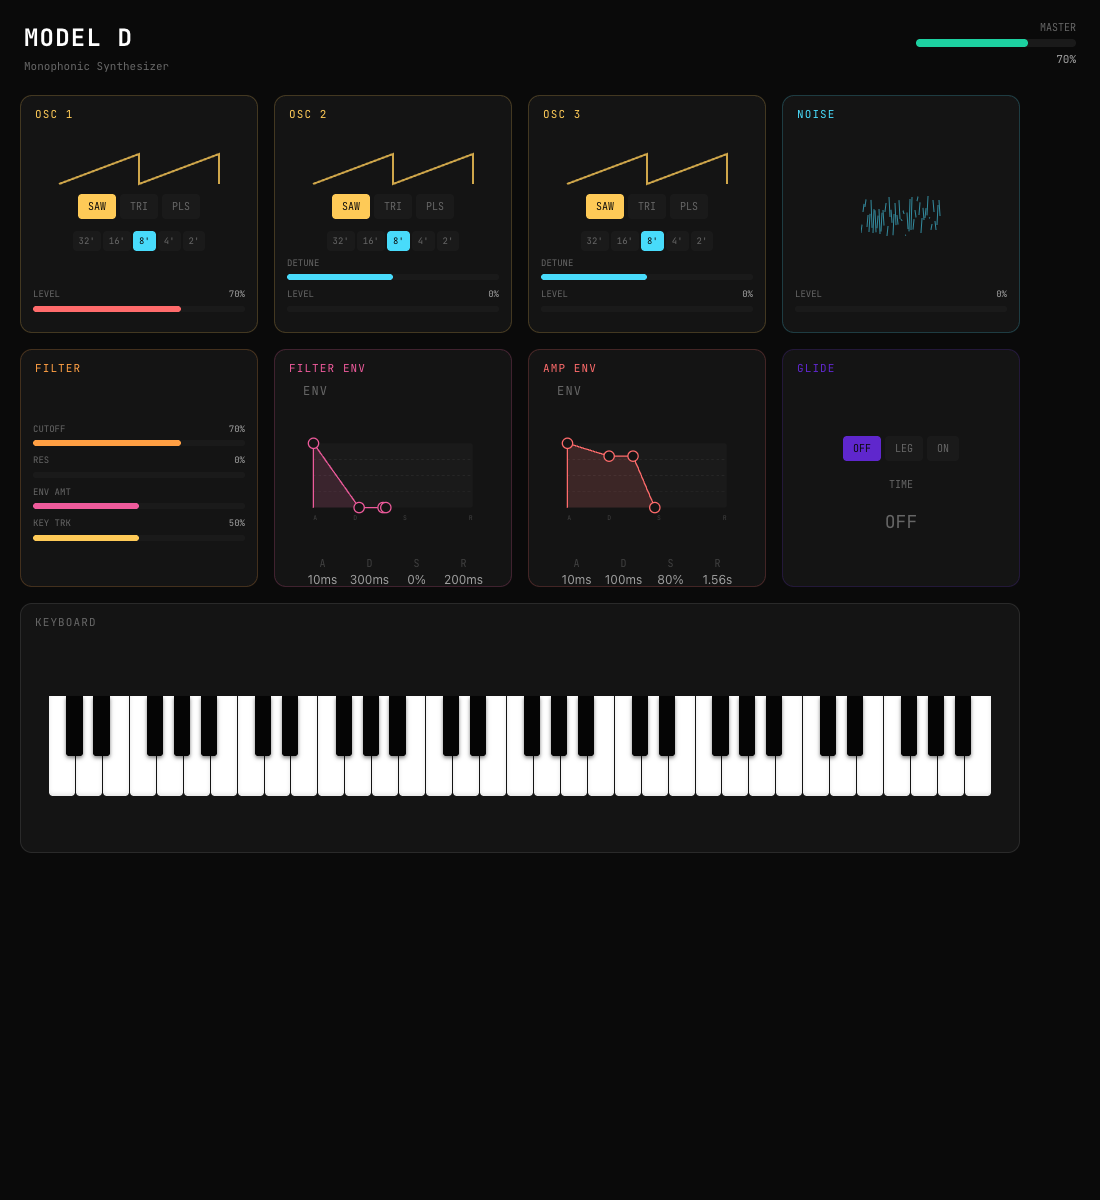
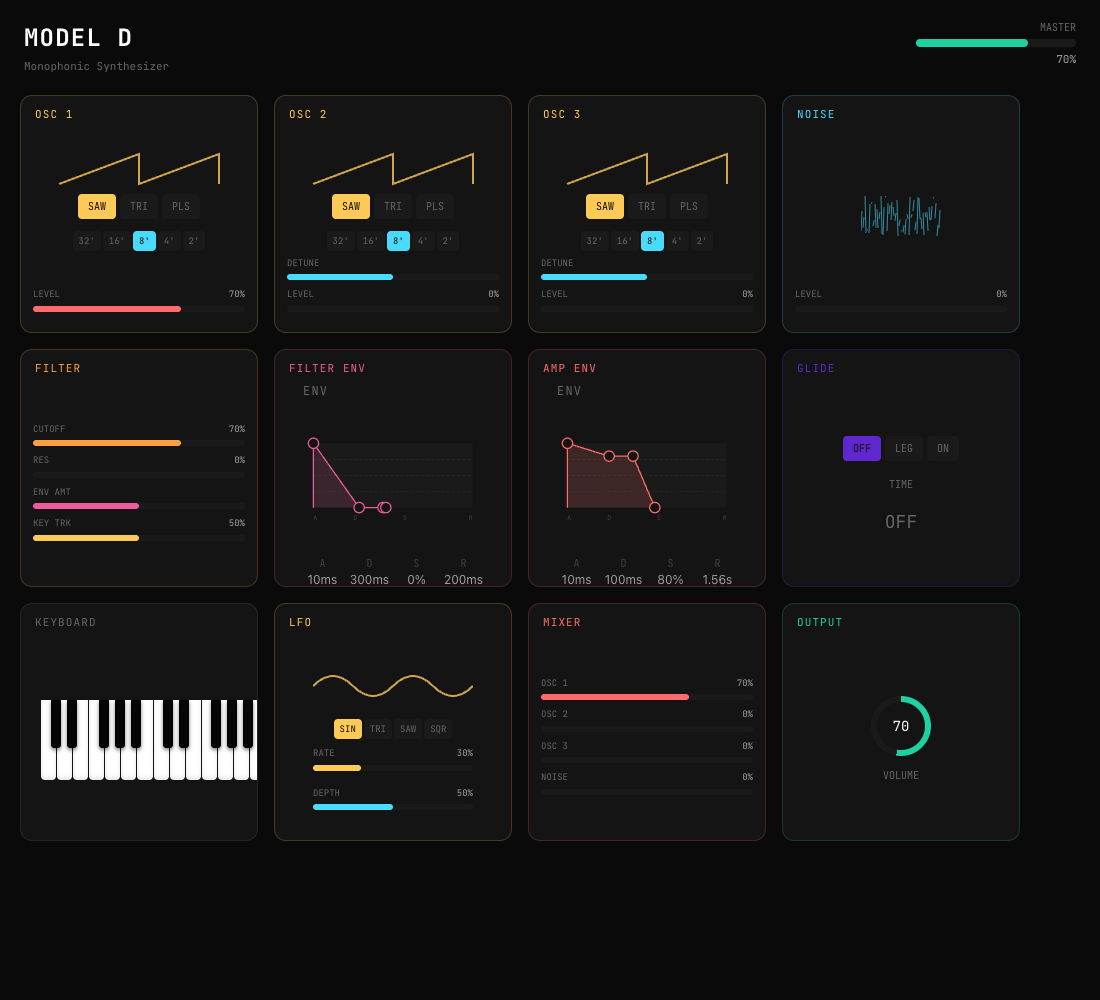
Fix SquareGrid: make ALL modules perfect squares
- Keyboard is now a single square (2 octaves, compact)
- Added LFO, MIXER, OUTPUT squares to complete row 3
- Now a perfect 4x3 grid of 12 identical squares
- Removed the span={4} that made keyboard 4x wider

🤖 Generated with [Claude Code](https://claude.com/claude-code)

diff --git a/src/stories/SynthLayout.stories.tsx b/src/stories/SynthLayout.stories.tsx
@@ -809,17 +809,77 @@ export const SquareGrid: StoryObj = {
             </div>
           </SquareModule>
 
-          {/* Row 3: Keyboard spans all 4 columns, same height as squares */}
-          <SquareModule title="KEYBOARD" span={4}>
-            <div style={{ width: '100%', height: '100%', display: 'flex', alignItems: 'center' }}>
+          {/* Row 3: More square modules */}
+          <SquareModule title="KEYBOARD" color={colors.text.muted}>
+            <div style={{ width: '100%', height: '100%', display: 'flex', alignItems: 'center', justifyContent: 'center' }}>
               <PianoKeyboard
-                startOctave={2}
-                octaves={5}
+                startOctave={4}
+                octaves={2}
                 activeNotes={activeNotes}
                 onNoteOn={(note) => setActiveNotes(prev => [...prev, note])}
                 onNoteOff={(note) => setActiveNotes(prev => prev.filter(n => n !== note))}
-                height={100}
+                height={80}
               />
+            </div>
+          </SquareModule>
+
+          <SquareModule title="LFO" color={colors.accent.yellow}>
+            <div style={{ flex: 1, display: 'flex', flexDirection: 'column', alignItems: 'center', justifyContent: 'center', gap: 8 }}>
+              <WaveformDisplay type="sine" color={colors.accent.yellow} />
+              <OptionButtons
+                options={['SIN', 'TRI', 'SAW', 'SQR']}
+                value="SIN"
+                color={colors.accent.yellow}
+                size="sm"
+              />
+              <CompactSlider label="Rate" value={0.3} color={colors.accent.yellow} />
+              <CompactSlider label="Depth" value={0.5} color={colors.accent.cyan} />
+            </div>
+          </SquareModule>
+
+          <SquareModule title="MIXER" color={colors.accent.coral}>
+            <div style={{ width: '100%', flex: 1, display: 'flex', flexDirection: 'column', justifyContent: 'center' }}>
+              <CompactSlider label="OSC 1" value={0.7} color={colors.accent.coral} />
+              <CompactSlider label="OSC 2" value={0} color={colors.accent.coral} />
+              <CompactSlider label="OSC 3" value={0} color={colors.accent.coral} />
+              <CompactSlider label="Noise" value={0} color={colors.accent.cyan} />
+            </div>
+          </SquareModule>
+
+          <SquareModule title="OUTPUT" color={colors.accent.green}>
+            <div style={{ flex: 1, display: 'flex', flexDirection: 'column', alignItems: 'center', justifyContent: 'center', gap: 12 }}>
+              <div style={{
+                width: 60,
+                height: 60,
+                borderRadius: '50%',
+                background: `conic-gradient(${colors.accent.green} ${masterLevel * 270}deg, ${colors.bg.elevated} 0deg)`,
+                display: 'flex',
+                alignItems: 'center',
+                justifyContent: 'center',
+              }}>
+                <div style={{
+                  width: 48,
+                  height: 48,
+                  borderRadius: '50%',
+                  background: colors.bg.surface,
+                  display: 'flex',
+                  alignItems: 'center',
+                  justifyContent: 'center',
+                  fontFamily: 'var(--font-mono)',
+                  fontSize: 14,
+                  color: colors.text.primary,
+                }}>
+                  {Math.round(masterLevel * 100)}
+                </div>
+              </div>
+              <div style={{
+                fontFamily: 'var(--font-mono)',
+                fontSize: 10,
+                color: colors.text.muted,
+                textTransform: 'uppercase',
+              }}>
+                VOLUME
+              </div>
             </div>
           </SquareModule>
         </div>
